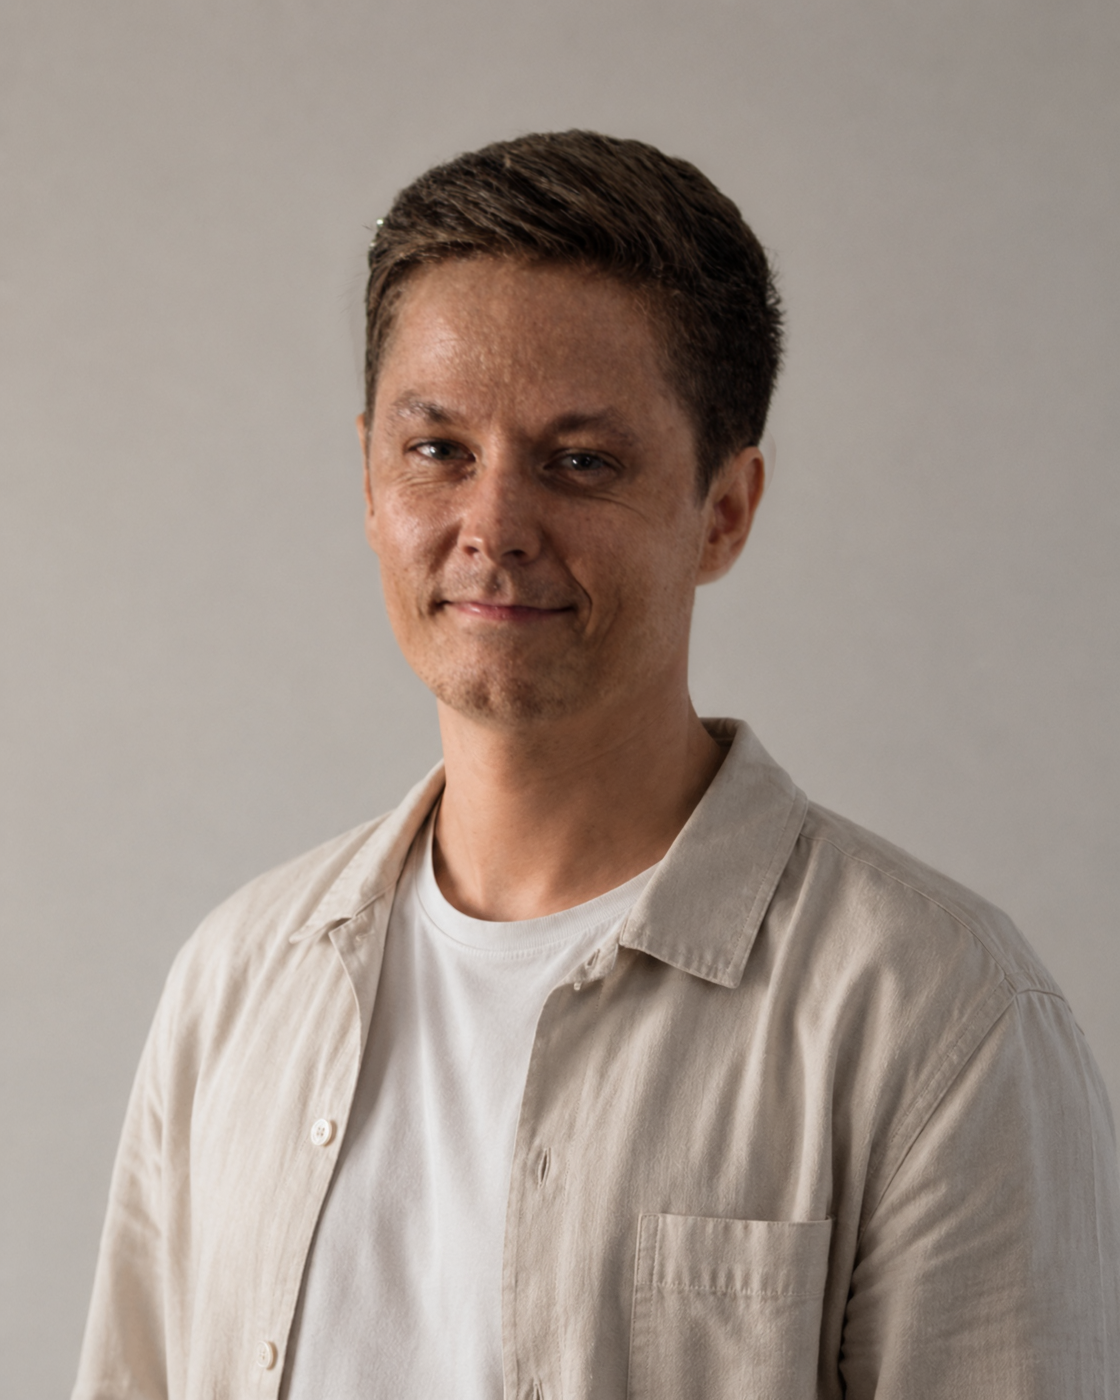
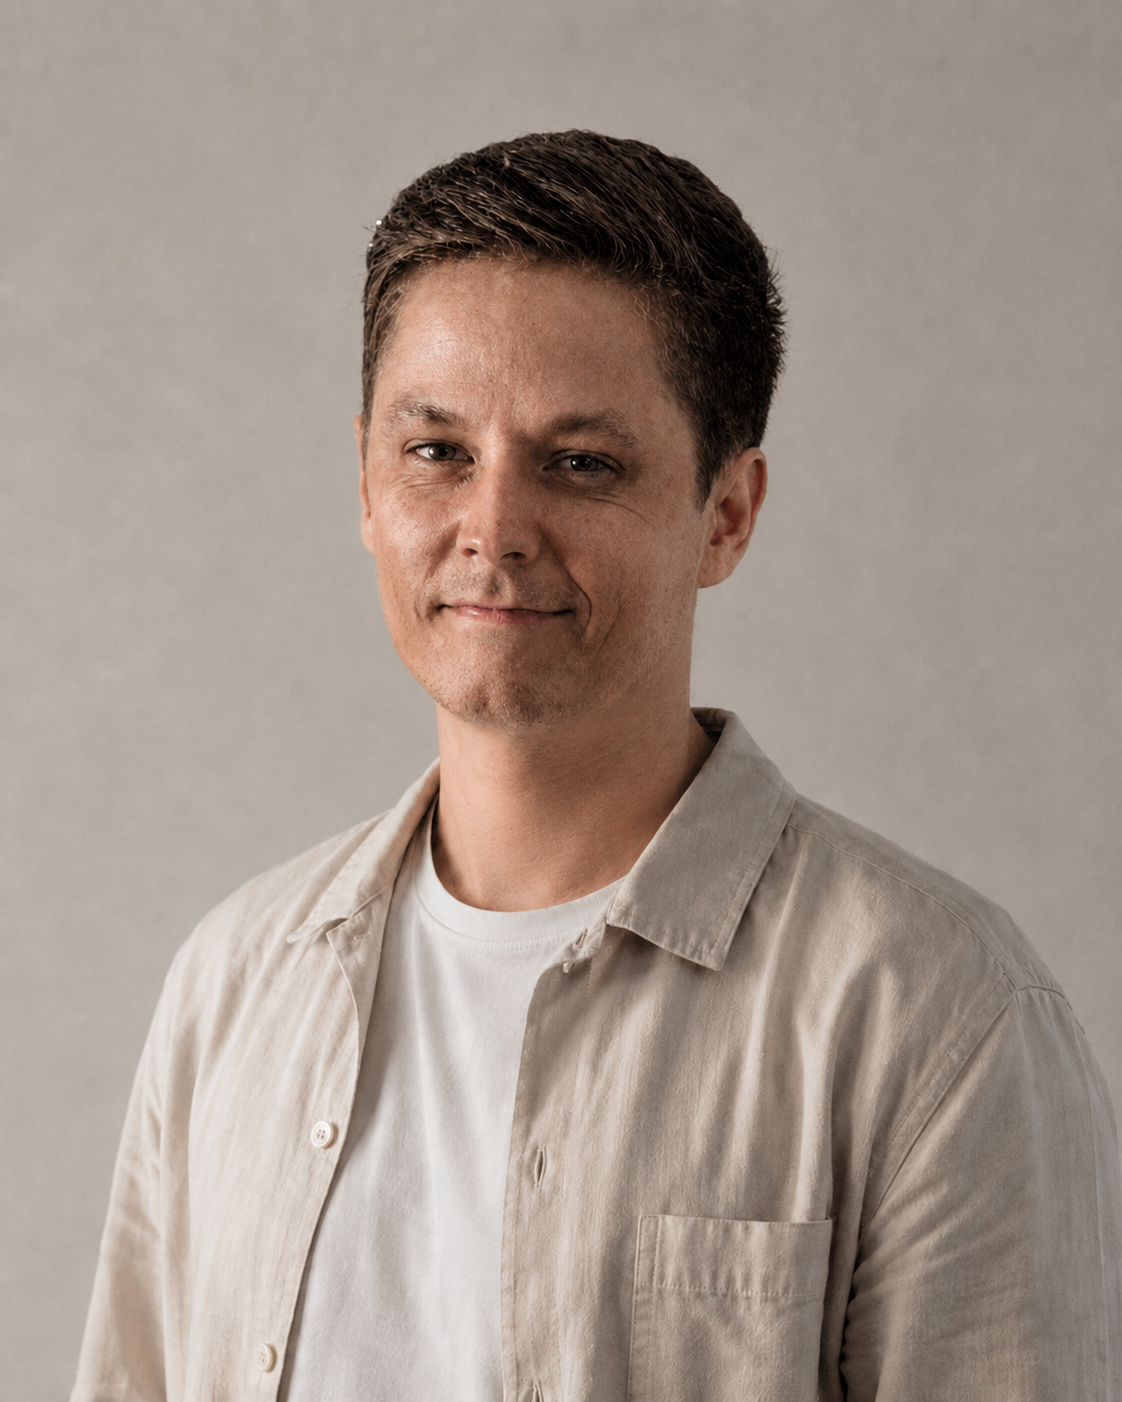
fix: Allowlist quality=95 in next.config images.qualities
Next 16 requires non-default Image quality values to be allowlisted
explicitly in next.config images.qualities. We bumped a few images to
quality={95} for sharpness (founder group photo, Susanne portrait, 2u
logo) but only 75 + 92 were allowlisted. Adding 95 to the array silences
the runtime warnings.

You'll need to restart the dev server for next.config changes to take
effect.

diff --git a/next.config.js b/next.config.js
@@ -11,8 +11,9 @@ const nextConfig = {
   images: {
     formats: ['image/avif', 'image/webp'],
     // Next 16 requires non-default quality values to be allowlisted —
-    // 92 used on the founder group photo for sharper rendering.
-    qualities: [75, 92],
+    // 92 + 95 used on the founder photos, susanne portrait, and 2u logo
+    // for sharper rendering.
+    qualities: [75, 92, 95],
   },
 
   // Compress output

diff --git a/components/AboutUs.tsx b/components/AboutUs.tsx
@@ -42,7 +42,7 @@ const FOUNDERS: Founder[] = [
   },
 ]
 
-const GROUP_PHOTO = '/founders/group.png'
+const GROUP_PHOTO = '/founders/group.jpg'
 const INTRO =
   'Vi byggde Elivro tillsammans under sex månader. Jimmy har arbetat tio månader som personlig assistent. Filiph har tio år som utvecklare för det offentliga, i system med höga krav på säkerhet och tillgänglighet. Daniel är expert på kundsupport och utbildad utvecklare. Tre olika bakgrunder, samma frustration över systemen vi själva använt.'
 